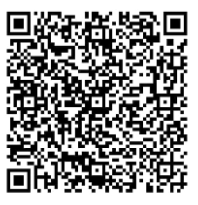
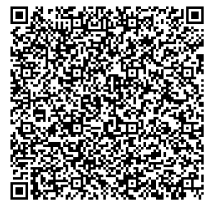
adding payment gifts

diff --git a/static/javascript/gifts.js b/static/javascript/gifts.js
@@ -3,127 +3,148 @@ const gifts = [
         name: "Jantar Romântico",
         image: "../static/images/gifts/images/Miojo.jpg",
         price: "R$ 2,80",
-        qrcode: "../static/images/gifts/qrcode/Account.png"
+        qrcode: "../static/images/gifts/qrcode/Miojo.png",
+        pixCopy: "00020126580014br.gov.bcb.pix01361936c090-08f4-4c29-b498-4f9a4627d07d52040000530398654042.805802BR5925CAIO CHAVES BEZERRA ROCHA6014RIO DE JANEIRO62520514PresenteJantar50300017br.gov.bcb.brcode01051.0.06304F2C4"
     },
     {
         name: "Kit de Spa Caseiro",
         image: "../static/images/gifts/images/SoapBubble.png",
         price: "R$ 9,99",
-        qrcode: "../static/images/gifts/qrcode/Account.png"
+        qrcode: "../static/images/gifts/qrcode/SoapBubble.png",
+        pixCopy: "00020126580014br.gov.bcb.pix01361936c090-08f4-4c29-b498-4f9a4627d07d52040000530398654049.995802BR5925CAIO CHAVES BEZERRA ROCHA6014RIO DE JANEIRO62520514PresenteKitSpa50300017br.gov.bcb.brcode01051.0.063044853"
     },
     {
         name: "Calmante da Noiva",
         image: "../static/images/gifts/images/VelhoBarreiro.png",
         price: "R$ 13,43",
-        qrcode: "../static/images/gifts/qrcode/Account.png"
+        qrcode: "../static/images/gifts/qrcode/VelhoBarreiro.png",
+        pixCopy: "00020126580014br.gov.bcb.pix01361936c090-08f4-4c29-b498-4f9a4627d07d520400005303986540513.435802BR5925CAIO CHAVES BEZERRA ROCHA6014RIO DE JANEIRO62590521PresenteCalmanteNoiva50300017br.gov.bcb.brcode01051.0.06304A9F7"
     },
     {
         name: "Curso de Dança Avançado",
         image: "../static/images/gifts/images/CDIvete.png",
         price: "R$ 30,00",
-        qrcode: "../static/images/gifts/qrcode/Account.png"
+        qrcode: "../static/images/gifts/qrcode/CDIvete.png",
+        pixCopy: "00020126580014br.gov.bcb.pix01361936c090-08f4-4c29-b498-4f9a4627d07d520400005303986540530.005802BR5925CAIO CHAVES BEZERRA ROCHA6014RIO DE JANEIRO62560518PresenteCursoDanca50300017br.gov.bcb.brcode01051.0.063042DBE"
     },
     {
         name: "Despedida de Solteiro da Noiva",
         image: "../static/images/gifts/images/Nun.png",
         price: "40 Pai-Nosso",
-        qrcode: "../static/images/gifts/qrcode/Account.png"
+        qrcode: "../static/images/gifts/qrcode/Pray.jpg",
+        pixCopy: ""
     },
     {
         name: "Travessa de Inox",
         image: "../static/images/gifts/images/Platter.jpeg",
         price: "R$ 70,00",
-        qrcode: "../static/images/gifts/qrcode/Account.png"
+        qrcode: "../static/images/gifts/qrcode/Platter.png",
+        pixCopy: "00020126580014br.gov.bcb.pix01361936c090-08f4-4c29-b498-4f9a4627d07d520400005303986540570.005802BR5925CAIO CHAVES BEZERRA ROCHA6014RIO DE JANEIRO62540516PresenteTravessa50300017br.gov.bcb.brcode01051.0.063048B0D"
     },
     {
         name: "Liquidificador",
         image: "../static/images/gifts/images/Mixer.jpg",
         price: "R$ 80,00",
-        qrcode: "../static/images/gifts/qrcode/Account.png"
+        qrcode: "../static/images/gifts/qrcode/Mixer.png",
+        pixCopy: "00020126580014br.gov.bcb.pix01361936c090-08f4-4c29-b498-4f9a4627d07d520400005303986540580.005802BR5925CAIO CHAVES BEZERRA ROCHA6014RIO DE JANEIRO62600522PresenteLiquidificador50300017br.gov.bcb.brcode01051.0.06304C28F"
     },
     {
         name: "Conjunto de Talheres",
         image: "../static/images/gifts/images/Cultery.jpg",
         price: "R$ 100,00",
-        qrcode: "../static/images/gifts/qrcode/Account.png"
+        qrcode: "../static/images/gifts/qrcode/Cultery.png",
+        pixCopy: "00020126580014br.gov.bcb.pix01361936c090-08f4-4c29-b498-4f9a4627d07d5204000053039865406100.005802BR5925CAIO CHAVES BEZERRA ROCHA6014RIO DE JANEIRO62540516PresenteTalheres50300017br.gov.bcb.brcode01051.0.0630409CB"
     },
     {
         name: "Sanduicheira",
         image: "../static/images/gifts/images/SandwichMaker.jpeg",
         price: "R$ 110,00",
-        qrcode: "../static/images/gifts/qrcode/Account.png"
+        qrcode: "../static/images/gifts/qrcode/SandwichMaker.png",
+        pixCopy: "00020126580014br.gov.bcb.pix01361936c090-08f4-4c29-b498-4f9a4627d07d5204000053039865406110.005802BR5925CAIO CHAVES BEZERRA ROCHA6014RIO DE JANEIRO62580520PresenteSanduicheira50300017br.gov.bcb.brcode01051.0.063040254"
     },
     {
         name: "Mixer",
         image: "../static/images/gifts/images/Mix.jpeg",
         price: "R$ 130,00",
-        qrcode: "../static/images/gifts/qrcode/Account.png"
+        qrcode: "../static/images/gifts/qrcode/Mix.png",
+        pixCopy: "00020126580014br.gov.bcb.pix01361936c090-08f4-4c29-b498-4f9a4627d07d5204000053039865406130.005802BR5925CAIO CHAVES BEZERRA ROCHA6014RIO DE JANEIRO62510513PresenteMixer50300017br.gov.bcb.brcode01051.0.063041548"
     },
     {
         name: "Espremedor de Laranja",
         image: "../static/images/gifts/images/Juicer.jpeg",
         price: "R$ 160,00",
-        qrcode: "../static/images/gifts/qrcode/Account.png"
+        qrcode: "../static/images/gifts/qrcode/Juicer.png",
+        pixCopy: "00020126580014br.gov.bcb.pix01361936c090-08f4-4c29-b498-4f9a4627d07d5204000053039865406160.005802BR5925CAIO CHAVES BEZERRA ROCHA6014RIO DE JANEIRO62560518PresenteEspremedor50300017br.gov.bcb.brcode01051.0.063048435"
     },
     {
         name: "Jogo de Panelas",
         image: "../static/images/gifts/images/Pan.jpg",
         price: "R$ 200,00",
-        qrcode: "../static/images/gifts/qrcode/Account.png"
+        qrcode: "../static/images/gifts/qrcode/Pan.png",
+        pixCopy: "00020126580014br.gov.bcb.pix01361936c090-08f4-4c29-b498-4f9a4627d07d5204000053039865406200.005802BR5925CAIO CHAVES BEZERRA ROCHA6014RIO DE JANEIRO62530515PresentePanelas50300017br.gov.bcb.brcode01051.0.063048122"
     },
     {
         name: "Batedeira",
         image: "../static/images/gifts/images/Mixr.jpeg",
         price: "R$ 250,00",
-        qrcode: "../static/images/gifts/qrcode/Account.png"
+        qrcode: "../static/images/gifts/qrcode/Mixr.png",
+        pixCopy: "00020126580014br.gov.bcb.pix01361936c090-08f4-4c29-b498-4f9a4627d07d5204000053039865406250.005802BR5925CAIO CHAVES BEZERRA ROCHA6014RIO DE JANEIRO62550517PresenteBatedeira50300017br.gov.bcb.brcode01051.0.06304C94D"
     },
     {
         name: "Aspirador",
         image: "../static/images/gifts/images/Cleaner.jpg",
         price: "R$ 270,00",
-        qrcode: "../static/images/gifts/qrcode/Account.png"
+        qrcode: "../static/images/gifts/qrcode/Cleaner.png",
+        pixCopy: "00020126580014br.gov.bcb.pix01361936c090-08f4-4c29-b498-4f9a4627d07d5204000053039865406270.005802BR5925CAIO CHAVES BEZERRA ROCHA6014RIO DE JANEIRO62550517PresenteAspirador50300017br.gov.bcb.brcode01051.0.063045FF5"
     },
     {
         name: "Airfriyer",
         image: "../static/images/gifts/images/Airfryer.jpg",
         price: "R$ 300,00",
-        qrcode: "../static/images/gifts/qrcode/Account.png"
+        qrcode: "../static/images/gifts/qrcode/Airfryer.png",
+        pixCopy: "00020126580014br.gov.bcb.pix01361936c090-08f4-4c29-b498-4f9a4627d07d5204000053039865406300.005802BR5925CAIO CHAVES BEZERRA ROCHA6014RIO DE JANEIRO62550517PresenteAirfriyer50300017br.gov.bcb.brcode01051.0.063048F59"
     },
     {
         name: "Cafeteira",
         image: "../static/images/gifts/images/CoffeMachine.jpeg",
         price: "R$ 350,00",
-        qrcode: "../static/images/gifts/qrcode/Account.png"
+        qrcode: "../static/images/gifts/qrcode/CoffeMachine.png",
+        pixCopy: "00020126580014br.gov.bcb.pix01361936c090-08f4-4c29-b498-4f9a4627d07d5204000053039865406350.005802BR5925CAIO CHAVES BEZERRA ROCHA6014RIO DE JANEIRO62550517PresenteCafeteira50300017br.gov.bcb.brcode01051.0.06304A466"
     },
     {
         name: "Jogo de Cama",
         image: "../static/images/gifts/images/BeddingSet.jpeg",
         price: "R$ 450,00",
-        qrcode: "../static/images/gifts/qrcode/Account.png"
+        qrcode: "../static/images/gifts/qrcode/BeddingSet.png",
+        pixCopy: "00020126580014br.gov.bcb.pix01361936c090-08f4-4c29-b498-4f9a4627d07d5204000053039865406450.005802BR5925CAIO CHAVES BEZERRA ROCHA6014RIO DE JANEIRO62560518PresenteJogoDeCama50300017br.gov.bcb.brcode01051.0.06304CB42"
     },
     {
         name: "Ar-Condicionado",
         image: "../static/images/gifts/images/Air.jpg",
         price: "R$ 700,00",
-        qrcode: "../static/images/gifts/qrcode/Account.png"
+        qrcode: "../static/images/gifts/qrcode/Air.png",
+        pixCopy: "00020126580014br.gov.bcb.pix01361936c090-08f4-4c29-b498-4f9a4627d07d5204000053039865406700.005802BR5925CAIO CHAVES BEZERRA ROCHA6014RIO DE JANEIRO62600522PresenteArcondicionado50300017br.gov.bcb.brcode01051.0.063043A22    "
     },
     {
         name: "Fogão",
         image: "../static/images/gifts/images/Stove.jpg",
         price: "R$ 1000,00",
-        qrcode: "../static/images/gifts/qrcode/Account.png"
+        qrcode: "../static/images/gifts/qrcode/Stove.png",
+        pixCopy: "00020126580014br.gov.bcb.pix01361936c090-08f4-4c29-b498-4f9a4627d07d52040000530398654071000.005802BR5925CAIO CHAVES BEZERRA ROCHA6014RIO DE JANEIRO62510513PresenteFogao50300017br.gov.bcb.brcode01051.0.0630493B6"
     },
     {
         name: "Geladeira",
         image: "../static/images/gifts/images/Refrigerator.jpg",
         price: "R$ 1200,00",
-        qrcode: "../static/images/gifts/qrcode/Account.png"
+        qrcode: "../static/images/gifts/qrcode/Refrigerator.png",
+        pixCopy: "00020126580014br.gov.bcb.pix01361936c090-08f4-4c29-b498-4f9a4627d07d52040000530398654071200.005802BR5925CAIO CHAVES BEZERRA ROCHA6014RIO DE JANEIRO62550517PresenteGeladeira50300017br.gov.bcb.brcode01051.0.0630406F0"
     },
     {
         name: "Lua de Mel",
         image: "../static/images/gifts/images/Trip.jpg",
         price: "R$ 1500,00",
-        qrcode: "../static/images/gifts/qrcode/Account.png"
+        qrcode: "../static/images/gifts/qrcode/Trip.png",
+        pixCopy: "00020126580014br.gov.bcb.pix01361936c090-08f4-4c29-b498-4f9a4627d07d52040000530398654071500.005802BR5925CAIO CHAVES BEZERRA ROCHA6014RIO DE JANEIRO62540516PresenteLuaDeMel50300017br.gov.bcb.brcode01051.0.06304978D"
     },
 ];
 
@@ -146,7 +167,6 @@ const handleClose = () => {
 }
 
 function handlebuttonclick(num) {
-    console.log(num)
     var novaDiv = document.createElement('div');
     novaDiv.setAttribute('class', 'overlay');
     novaDiv.addEventListener('click', handleOverlayClick)
@@ -164,12 +184,27 @@ function handlebuttonclick(num) {
     image.src = "../static/images/qrcode.png"
     image.src = gifts[num].qrcode;
     
+    var span = document.createElement('a')
+    span.textContent = "Pix Copia e Cola"
+    span.onclick = function() {
+        document.execCommand("copy");
+      }
+      
+      span.addEventListener("copy", function(event) {
+        event.preventDefault();
+        if (event.clipboardData) {
+          event.clipboardData.setData("text/plain", gifts[num].pixCopy);
+          alert("Código Pix Copia e Cola Copiado!");
+        }
+      });
+
     var text = document.createElement('p')
     text.setAttribute('class', 'textPopup');
     text.textContent = "Muito Obrigado!"
 
     filha.appendChild(button);
     filha.appendChild(image);
+    filha.appendChild(span);
     filha.appendChild(text);
 
     novaDiv.appendChild(filha);

diff --git a/templates/gifts.html b/templates/gifts.html
@@ -41,7 +41,7 @@
             <h1 class="section-title-text">Presentes</h1>
             <p class="section-text" style="margin-right: 5%; margin-left: 5%;">Queridos amigos e familiares, estamos incrivelmente felizes por compartilhar este momento especial com todos vocês. Sua presença em nosso casamento é o maior presente que poderíamos pedir. No entanto, se você estiver considerando nos presentear de outra forma, aqui abaixo estão as informações do pix. Além disso, na próxima seção estão algumas sugestões de presentes. Essas sugestões são meramente ilustrativas uma vez que iremos nos mudar em breve e não será possível levarmos presentes físicos conosco.</p>
             <img src="../static/images/gifts/qrcode/Account.png" style="margin-top: 40px; width: 250px;">
-            <p style="font-weight: bolder;">Chave Pix Celular: 85986370794</p>
+            <p style="font-weight: bolder;">Chave Aleatória Pix: 1936c090-08f4-4c29-b498-4f9a4627d07d</p>
         </div>
 
         <div class="content-gifts">
